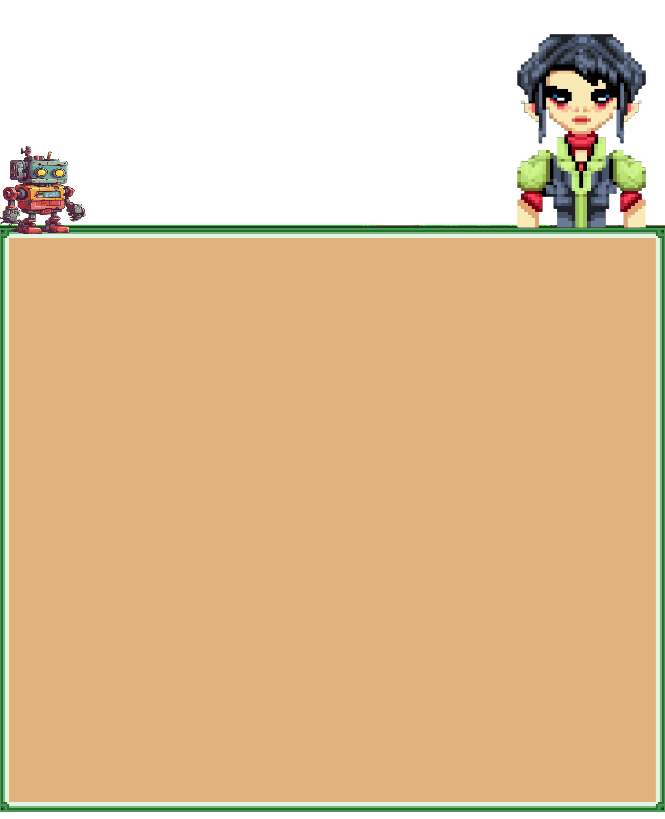
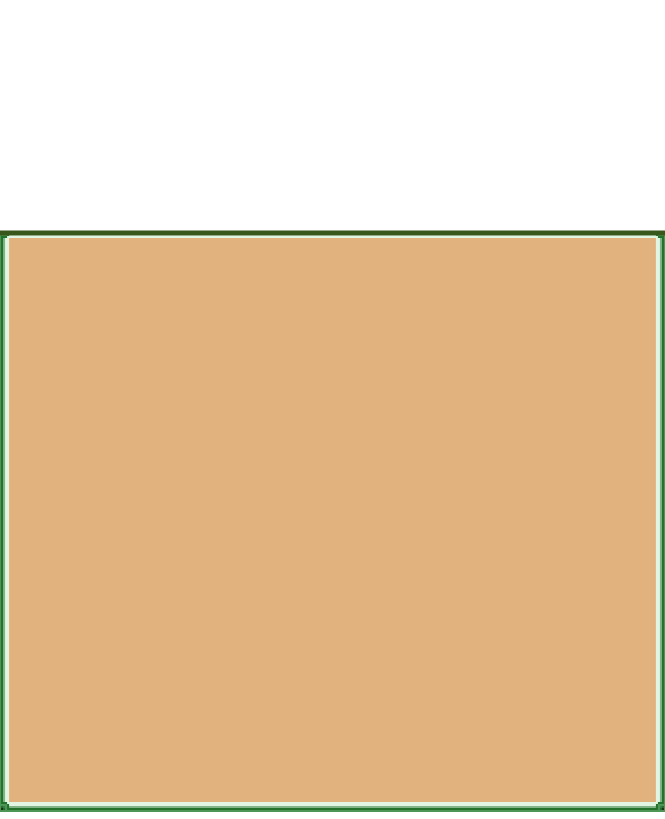
styled dialogue box and renamed headshot files

Changed region(s): [[0.0, 0.0305, 1.0, 0.3053]]

diff --git a/client/src/css/overlay1.css b/client/src/css/overlay1.css
@@ -1,45 +1,94 @@
-.interaction-container {
+.interaction-container, .special-features-container {
     position: absolute; 
     bottom: 10%;
     left: 10%; 
     width: 80%; 
     height: 80%; 
     display: flex;
-    background: 
-    rgba(255,255,255,0.7); 
+    /* background: 
+    rgba(255,255,255,0.7); */
+
     flex-direction: column; 
     justify-content: center; 
     align-items: center;
     z-index: 10000;
+    
+  }
+
+
+  .interaction-container::before, .special-features-container::before {
+    content: "";
+    position: absolute;
+    top: 0;
+    right: 0;
+    bottom: 0;
+    left: 0;
+    /* background: url('../../public/game/images/Dialog-boxShadyBig.png') no-repeat center center / cover;
+    z-index: 1; */
+  } 
+
+  .interaction-container > * {
+    position: relative;
+    z-index: 2;
+  }
+
+  .special-features-container > * {
+    position: relative;
+    z-index: 2;
   }
   
 
-#dialogue-container {
+#dialogue-container, #violet-container {
     width: 100%;
-    height: 85%;  
-    border-width: 3px ; 
-    border-style: dashed; 
-    border-color: black;
+    height: 100%;  
     font-size: 20px;
     line-height: 21px;
+    overflow-wrap: break-word;
+    background-color: tan;
+    border: 10px ridge rgb(66, 133, 55);
+
+    /* background: url('../../public/game/images/Dialog-boxVioletBig.png') no-repeat center center / cover; */
+    z-index: 1;
+    position: relative;
+
+}
+
+
+
+#dialogue-text, #violet-container{
+    width: 100%;
+    height: 100%;
+    overflow-y: scroll;
+    text-align: justify;
+    margin-right: 100px;
+    margin-bottom: 100px;
+}
+
+#dialogue-img {
+    position: absolute;
+    bottom: 0;
+    right: 0;
+    width: 100px;
+    height: 100px;
+    float: right;
+   
 }
 #text-input-container {
     width: 100%;
     height: 10%; 
     border-width: 3px 3px 3px 0; 
-    border-style: dashed; 
-    border-color: black;
+    border: 10px ridge rgb(66, 133, 55);
+
     justify-content: center;
     align-items: center;
     font-size: 20px;
+  
 }
 
+
 #chat-input {
-    width: 90%;
-    height: 100%;
-    overflow: auto;
-    margin: 0px;
-    padding: 0px;  
+    overflow: scroll;
+
 }
 
 #chat-input-form {
@@ -50,18 +99,34 @@
     padding: 0px;
 }
 
-#submit-chat-button {
-    margin: 0px;
-    padding: 0px;
-    width: 10%;
-    height: 100%;
-
+.close.btn, .trade.btn, .chat.btn {
+    height: 45px;
+    border-radius: 5px;
+    padding: 10px;
+    font-size: 16px;
+    margin: 20 0px;
+    background-color: rgb(66, 133, 55);
+    color: white;
+    border: none;
+    box-shadow: 10px 10px 20px rgba(0,0,0,0.3);
+    transition: 0.3s ease;
+    /* margin-top: 40px;
+    margin-right: 20px;
+    */
+ 
 }
 
+
 .interaction-nav {
+
+    gap: 10px;
     width: 100%;
     height: 5%;
     display: flex;
-    justify-content: space-between;
+    justify-content: flex-end;
+    position: relative;
+    z-index: 1001;
+   
 }
+
   

diff --git a/client/src/components/interaction/chat/TextInput.js b/client/src/components/interaction/chat/TextInput.js
@@ -12,25 +12,62 @@ export const TextInput = () => {
 
     const handleSubmit = async (event) => {
         
-        event.preventDefault();
-        addDialogue('Barf', inputText); // User's dialogue
-        //ToDO: choose prompt (based on user) 
-        // var prompt = "test prompt"
-        const npcResponse = await fetchOpenAiApi(inputText); // Some function that generates NPC response
-        addDialogue(interactionObject, npcResponse); // NPC's dialogue
-        console.log("TextInput.js dialogueList_______", dialogueList)
-        setInputText(''); // Clear the input field
+        try {
+            event.preventDefault();
+            addDialogue('Barf', inputText); // User's dialogue
+            //ToDO: choose prompt (based on user) 
+            // var prompt = "test prompt"
+            const npcResponse = await fetchOpenAiApi(inputText); // Some function that generates NPC response
+            addDialogue(interactionObject, npcResponse);//NPC's dialogue
+            console.log("TextInput.js dialogueList_______", dialogueList)
+        } catch (error) {
+            console.error(error);
+        } finally {
+            setInputText(''); //Clear the input field
+        }
+     
     };
 
     return (
         <div id="text-input-container">
             <form id="chat-input-form" onSubmit={handleSubmit}>
-                <textarea
+                <textarea  style={{
+                    width: '100%',
+                    height: '25px',
+                    borderRadius: '5px',
+                    padding: '10px',
+                    fontSize: '16px',
+                    margin: '20 0px',
+                    backgroundColor: ' rgb(66, 133, 55)',
+                    color: 'white',
+                    
+                }}
                     id = "chat-input"
                     value={inputText}
                     onChange={(e) => setInputText(e.target.value)}
                 />
-                <button id="submit-chat-button">Submit</button>
+                <button style={{
+                    height: '45px',
+                    borderRadius: '5px',
+                    padding: '10px',
+                    fontSize: '16px',
+                    margin: '20 0px',
+                    backgroundColor: ' rgb(66, 133, 55)',
+                    color: 'white',
+                    border: 'none',
+                    boxShadow: '10px 10px 20px rgba(0,0,0,0.3)',
+                    transition: '0.3s ease' 
+                    
+                }} 
+                onMouseDown={(e) => {
+                    e.target.style.boxShadow = '2px 2px 5px rgba(99,157,82,0.2';
+                }}
+
+                onMouseUp={(e) => {
+                    e.target.style.boxShadow = '5px 5px 10px rgba(66,133,55, 0.3';
+                }}
+                
+                id="submit-chat-button">Submit</button>
             </form>
         </div>
     );

diff --git a/client/src/components/interaction/chat/Dialogue.js b/client/src/components/interaction/chat/Dialogue.js
@@ -3,20 +3,32 @@ import { DialogueContext } from "./Chat"
 
 import "../../../css/overlay1.css"
 
+// const characterImages = {
+//   "zara": "/game/images/zara-sparks.png",
+//   "violet": "/game/images/violet-meadows.png",
+//   "taylor": "/game/images/taylor-tuck.png",
+//   "shady": "/game/images/shady-schemer.png",
+//   "hydra": "/game/images/beryl-and-basil-hydra.png",
+//   "abe": "/game/images/abe-harmony.png"
+// }
 
 
 const Dialogue = () => {
   const { dialogueList } = useContext(DialogueContext)
+
+  const currentCharacter = `game/images/characterHeadshots/${window.interactionObject}.png`;
   
   return (
     <div id="dialogue-container">
-      <ul className="dialogue-ul">
+      <ul className="dialogue-ul" id="dialogue-text">
         {dialogueList.map((dialogue, index) => (
           <li key={index}>
             <strong>{dialogue.speaker}</strong>: {dialogue.text}
           </li>
         ))}
       </ul>
+          {/* {currentCharacter && <img src={characterImages[currentCharacter]} alt="Character Image" id="dialogue-img"/>} */}
+            <img src={currentCharacter} alt="Character Image" id="dialogue-img"/>
     </div>
   );
 }

diff --git a/client/src/components/interaction/chat/Chat.js b/client/src/components/interaction/chat/Chat.js
@@ -26,11 +26,12 @@ const Chat = ({ setShowAnything, setShowChat, setShowSpecialFeatures }) => {
     disableWASD()
   };
 
+
   return (
     <div className="interaction-container" id="chat-container">
         <nav className="interaction-nav">
-          <button onClick={handleClose}>Close</button>
-          <button onClick={handleTab}>Trade</button>
+          <button className="close btn" onClick={handleClose}>Close</button>
+          <button className="trade btn" onClick={handleTab}>Trade</button>
         </nav>
         <DialogueContext.Provider value={{ dialogueList, addDialogue }}>
           <Dialogue />
